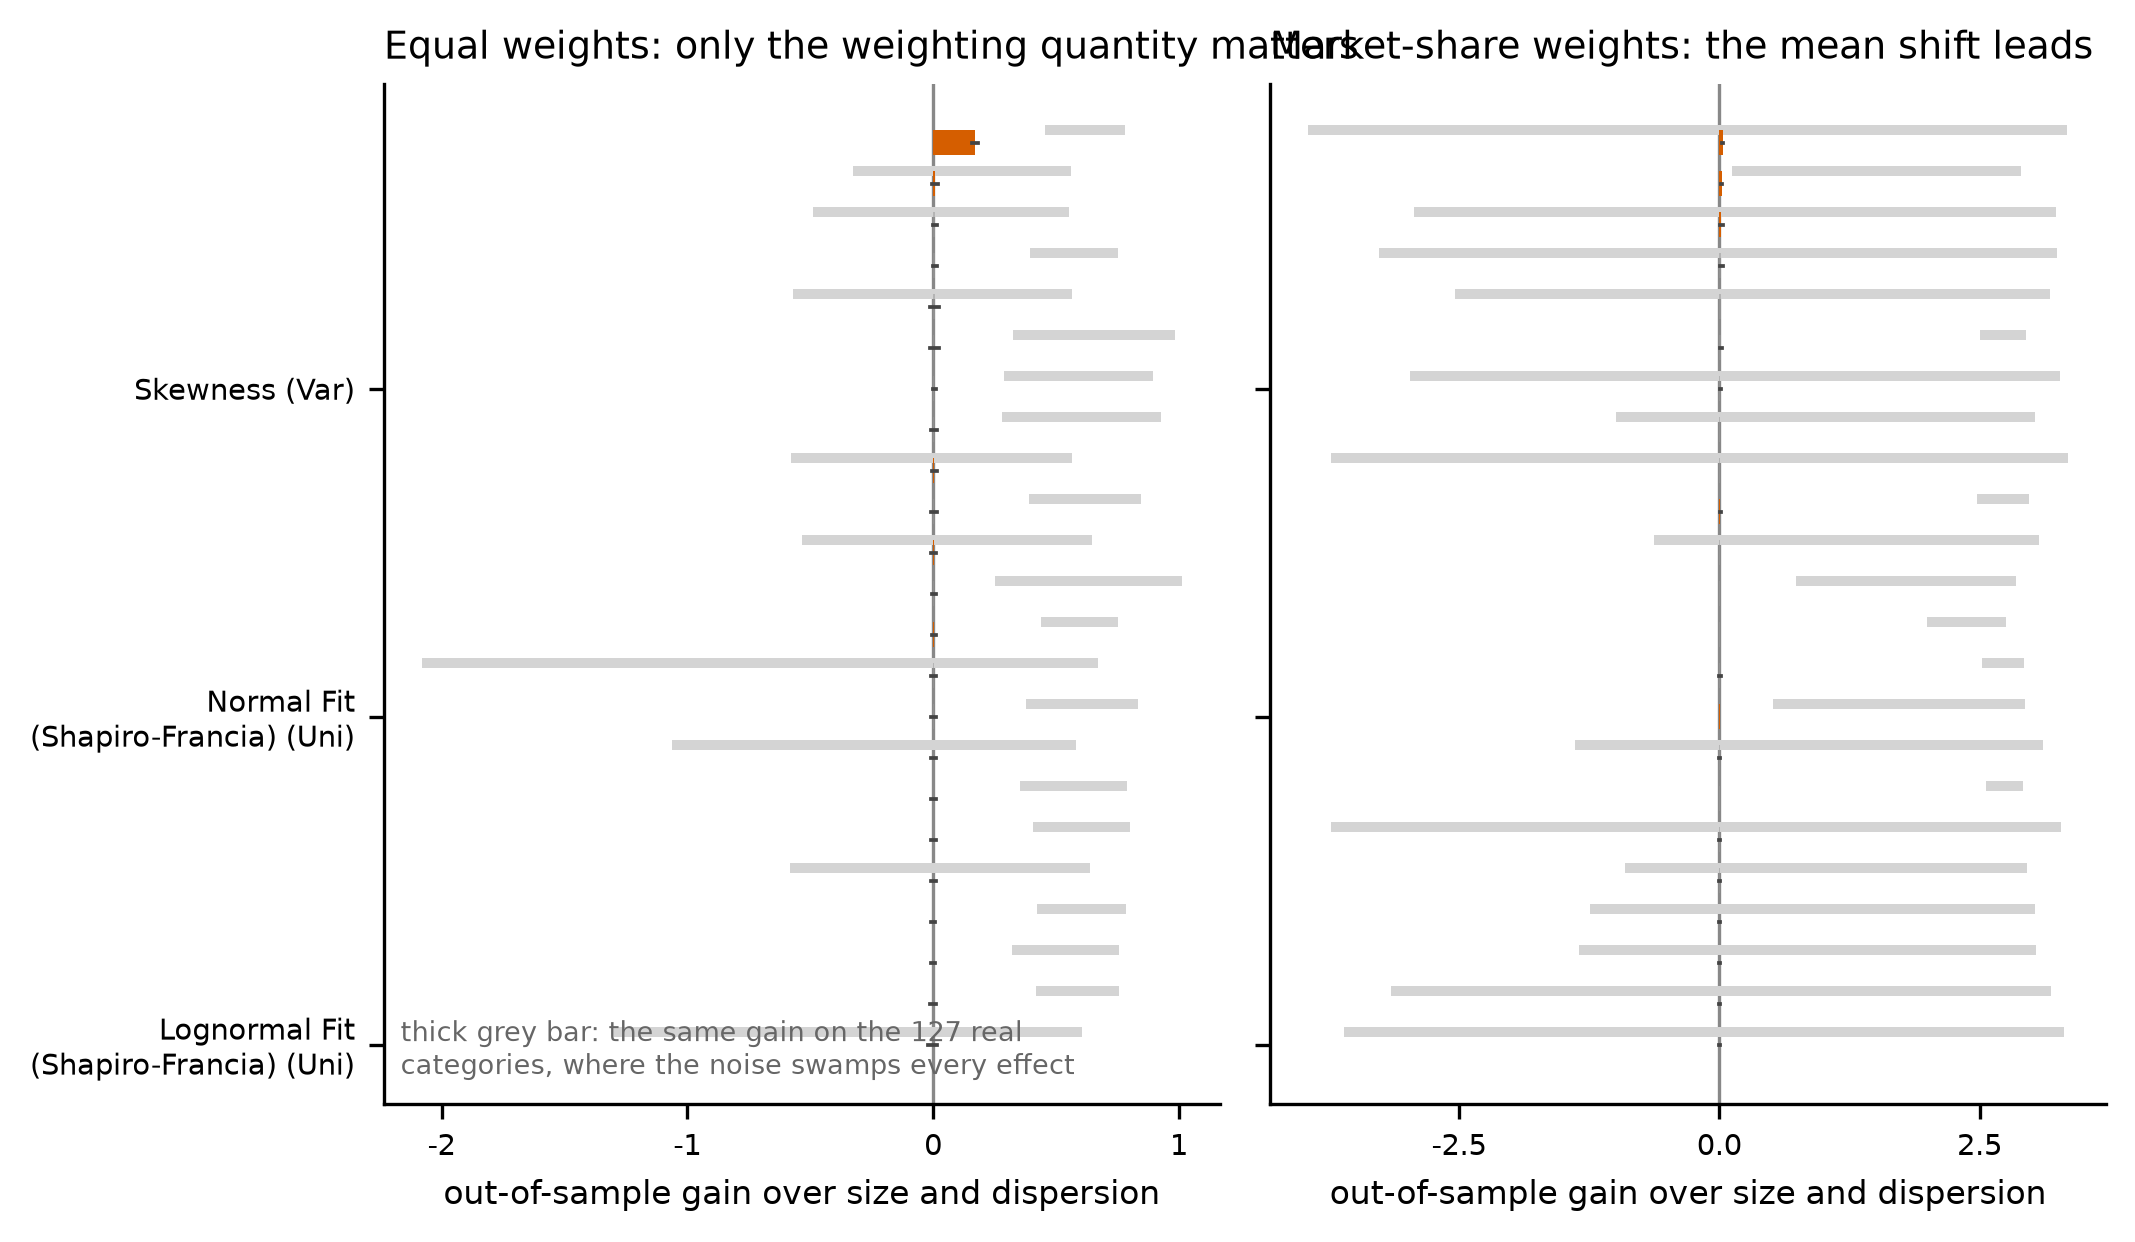
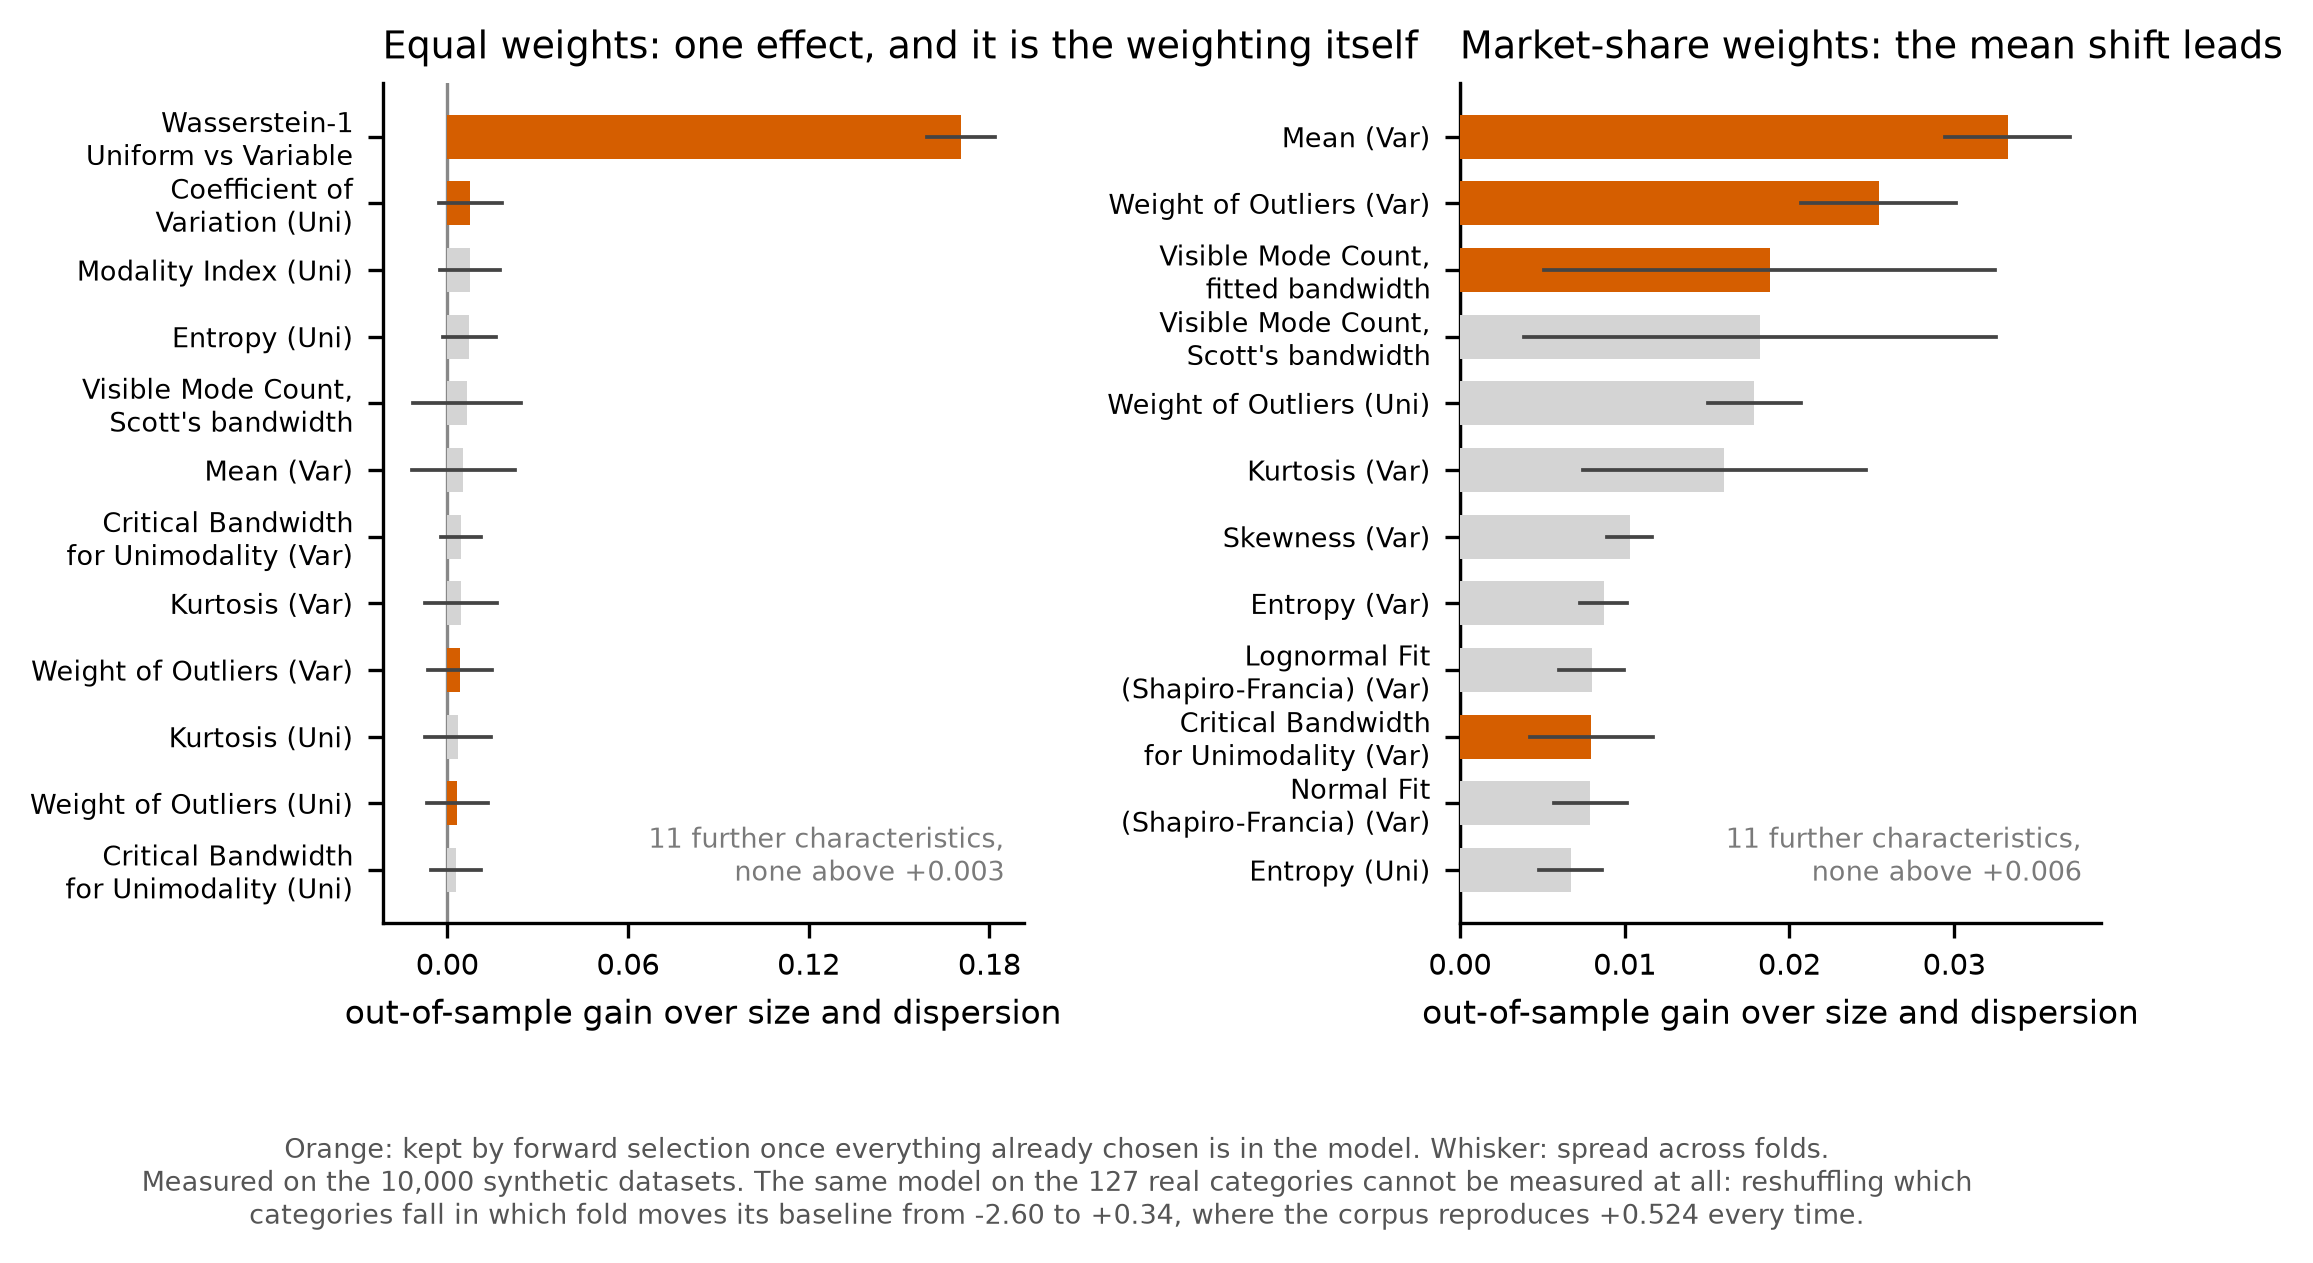
Draw every characteristic selection kept, and fix a miscited reference
Figure B ranked by the one-at-a-time gain and drew the top twelve, which let a
characteristic be KEPT by selection and not appear in the panel at all -- the
orange marks then looked arbitrary. A characteristic can be kept while its
marginal gain is small; that is the point of selecting against what is already
in the model. Everything kept is now drawn whatever its marginal rank.

The handoff cited 'entries 134, 135 and 136' where it meant decisions; the
report test caught it.

Changed region(s): [[0.0, 0.0, 0.9892, 0.9791], [0.4946, 0.0918, 0.5255, 0.1224]]

diff --git a/reports/HANDOFF_stage-2f.md b/reports/HANDOFF_stage-2f.md
@@ -638,7 +638,7 @@ probabilistic LCA, and the manuscript.
 
 **FIRST, WHAT THE NEXT SESSION MUST NOT REPEAT.** Three claims from this
 stage's first version are withdrawn and are recorded as withdrawn in the
-project's decision log at entries 134, 135 and 136: that the author's modality
+project's decision log, as decisions 134, 135 and 136: that the author's modality
 index is the second-best predictor of which method to use (it is an in-sample
 result on 127 categories and does not survive out of sample), that five further
 characteristics add 0.10 to 0.14 of explained variance to the choice (the same
